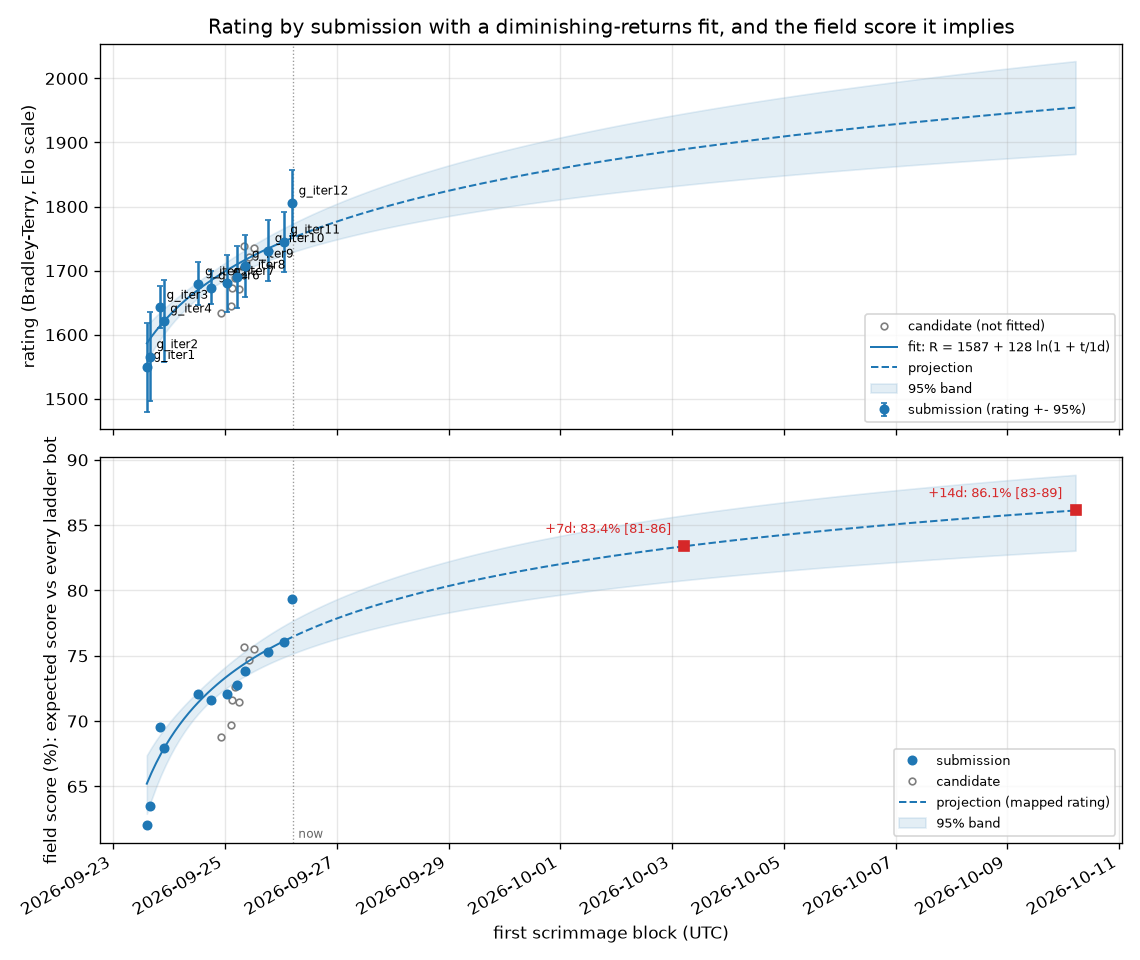
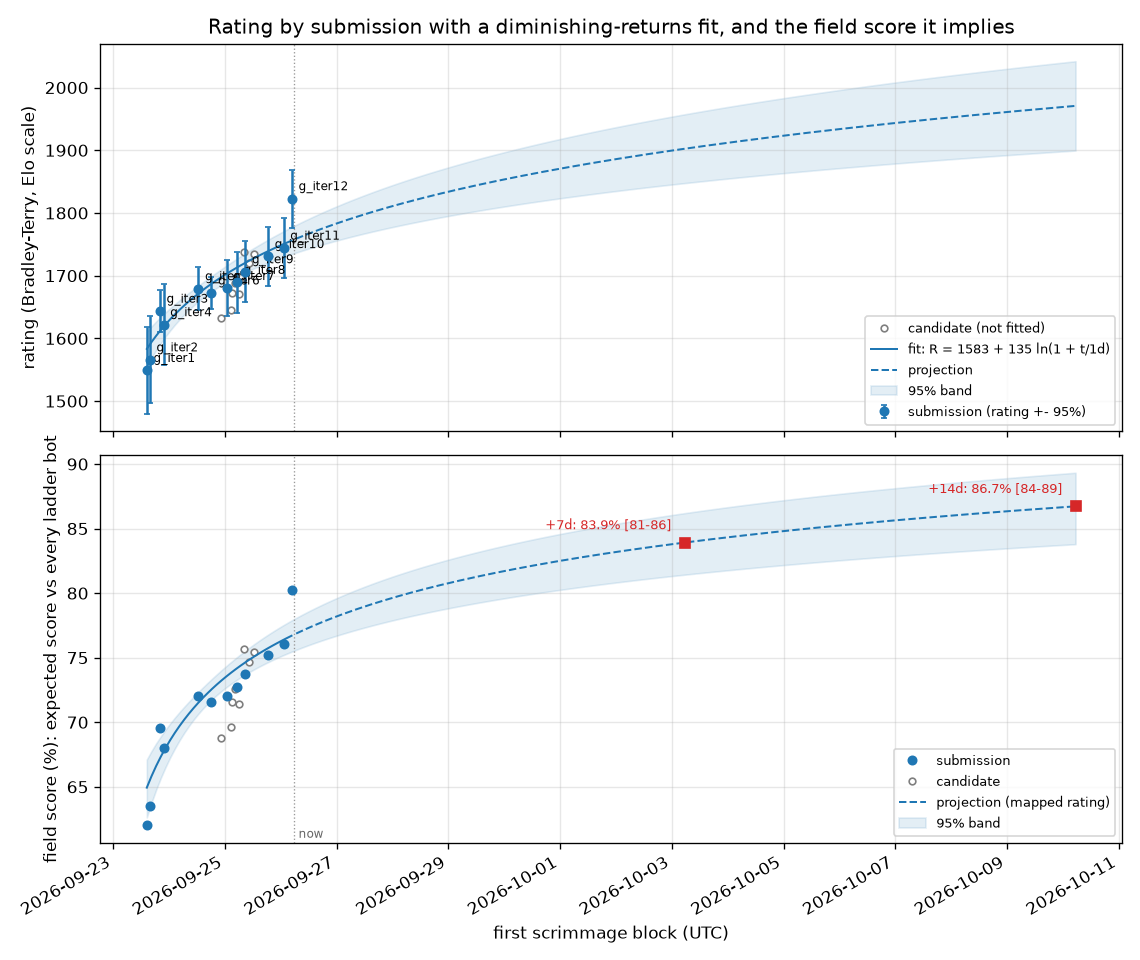
Submission block 20260926-051514-scrim-g_iter12 posted (g_iter12)
Claude-Session: https://claude.ai/code/session_015tNyF5ucwWW1mudpEQTT25

diff --git a/progress/ONSET-merged.md b/progress/ONSET-merged.md
@@ -1,6 +1,6 @@
-# Which metric starts predicting the result first -- every recorded block of g_iter11 merged
+# Which metric starts predicting the result first -- every recorded block of g_iter12 merged
 
-204 games, 99 wins. Noise floor about 0.14; a correlation inside that band is not evidence.
+197 games, 105 wins. Noise floor about 0.14; a correlation inside that band is not evidence.
 
 Every metric is oriented so **higher is better for us**, so a positive correlation always means
 "this being better goes with winning". `~avg` is the running mean over all rounds so far rather than
@@ -12,46 +12,46 @@ See `progress/METRICS.md` for how each quantity is computed.
 
 | onset | anti | metric | peak corr | r100 | r200 | r300 | r400 | r600 | r900 |
 |---|---|---|---|---|---|---|---|---|---|
-| r100 | - | mines (us-them) | +0.43 | +0.33 | +0.35 | +0.39 | +0.40 | +0.43 | +0.42 |
-| r100 | - | mines (us-them) ~avg | +0.44 | +0.32 | +0.35 | +0.37 | +0.40 | +0.43 | +0.43 |
-| r100 | - | worth (us-them) | +0.50 | +0.34 | +0.35 | +0.42 | +0.43 | +0.50 | +0.47 |
-| r100 | - | worth (us-them) ~avg | +0.49 | +0.33 | +0.35 | +0.39 | +0.42 | +0.48 | +0.49 |
-| r250 | - | robots (us-them) | +0.59 | +0.27 | +0.26 | +0.36 | +0.40 | +0.56 | +0.59 |
-| r250 | - | spawned (us-them) | +0.57 | +0.27 | +0.25 | +0.37 | +0.40 | +0.54 | +0.57 |
-| r300 | - | robots (us-them) ~avg | +0.57 | +0.28 | +0.25 | +0.32 | +0.38 | +0.49 | +0.56 |
-| r300 | - | spawned (us-them) ~avg | +0.56 | +0.28 | +0.25 | +0.31 | +0.38 | +0.49 | +0.55 |
-| r300 | - | vaporators (us-them) | +0.41 | +0.01 | +0.16 | +0.32 | +0.31 | +0.41 | +0.33 |
-| r400 | - | pickups (us-them) | +0.44 | +0.08 | +0.15 | +0.26 | +0.34 | +0.37 | +0.44 |
-| r400 | - | vaporators (us-them) ~avg | +0.41 | +0.01 | +0.10 | +0.27 | +0.31 | +0.39 | +0.39 |
-| r450 | - | landscapers (us-them) | +0.65 | +0.12 | +0.04 | +0.08 | +0.21 | +0.52 | +0.65 |
-| r450 | - | pickups (us-them) ~avg | +0.44 | +0.10 | +0.17 | +0.24 | +0.30 | +0.37 | +0.42 |
-| r450 | - | units (us-them) | +0.57 | +0.24 | +0.13 | +0.21 | +0.29 | +0.51 | +0.55 |
-| r500 | - | units (us-them) ~avg | +0.55 | +0.25 | +0.16 | +0.17 | +0.24 | +0.40 | +0.53 |
-| r600 | - | digs (us-them) | +0.59 | +0.12 | +0.02 | +0.02 | +0.11 | +0.30 | +0.47 |
-| r600 | - | landscapers (us-them) ~avg | +0.64 | +0.12 | +0.04 | +0.03 | +0.09 | +0.31 | +0.56 |
-| r650 | - | dirtDeps (us-them) | +0.58 | +0.13 | +0.01 | +0.00 | +0.07 | +0.26 | +0.45 |
-| r650 | - | miners (us-them) | +0.42 | +0.12 | +0.12 | +0.13 | +0.15 | +0.30 | +0.42 |
-| r750 | - | drones (us-them) | +0.34 | +0.19 | +0.17 | +0.24 | +0.22 | +0.25 | +0.32 |
-| r800 | - | drones (us-them) ~avg | +0.32 | +0.19 | +0.23 | +0.26 | +0.26 | +0.26 | +0.32 |
-| r800 | - | moves (us-them) | +0.40 | -0.15 | -0.06 | +0.05 | +0.12 | +0.23 | +0.35 |
-| r850 | - | digs (us-them) ~avg | +0.50 | +0.11 | +0.02 | -0.00 | +0.04 | +0.17 | +0.35 |
-| r850 | - | miners (us-them) ~avg | +0.36 | +0.18 | +0.15 | +0.16 | +0.17 | +0.22 | +0.31 |
-| r900 | - | dirtDeps (us-them) ~avg | +0.48 | +0.12 | +0.01 | -0.02 | +0.00 | +0.13 | +0.32 |
-| r1000 | - | moves (us-them) ~avg | +0.34 | -0.18 | -0.08 | +0.02 | +0.08 | +0.16 | +0.26 |
-| - | r950 | aba (us-them) [inverted] | -0.33 | +0.08 | +0.08 | +0.00 | -0.01 | -0.11 | -0.29 |
-| - | - | aba (us-them) [inverted] ~avg | -0.26 | +0.06 | +0.07 | +0.01 | -0.01 | -0.06 | -0.17 |
-| - | - | cov (us-them) | -0.19 | -0.19 | -0.08 | +0.00 | +0.06 | +0.11 | +0.17 |
-| - | - | cov (us-them) ~avg | -0.19 | -0.19 | -0.14 | -0.07 | -0.03 | +0.02 | +0.10 |
-| - | - | died (us-them) [inverted] | +0.29 | +0.07 | +0.08 | +0.11 | +0.18 | +0.27 | +0.18 |
-| - | - | died (us-them) [inverted] ~avg | +0.24 | +0.07 | +0.11 | +0.11 | +0.13 | +0.22 | +0.23 |
+| r150 | - | worth (us-them) | +0.51 | +0.25 | +0.33 | +0.43 | +0.47 | +0.46 | +0.46 |
+| r250 | - | mines (us-them) | +0.43 | +0.29 | +0.28 | +0.38 | +0.43 | +0.42 | +0.41 |
+| r250 | - | robots (us-them) | +0.58 | +0.15 | +0.19 | +0.38 | +0.47 | +0.50 | +0.56 |
+| r250 | - | worth (us-them) ~avg | +0.53 | +0.24 | +0.29 | +0.38 | +0.44 | +0.48 | +0.48 |
+| r300 | - | mines (us-them) ~avg | +0.46 | +0.28 | +0.26 | +0.32 | +0.38 | +0.43 | +0.44 |
+| r300 | - | spawned (us-them) | +0.60 | +0.13 | +0.13 | +0.35 | +0.44 | +0.49 | +0.56 |
+| r350 | - | robots (us-them) ~avg | +0.59 | +0.13 | +0.14 | +0.27 | +0.37 | +0.49 | +0.57 |
+| r350 | - | units (us-them) | +0.56 | +0.23 | +0.14 | +0.26 | +0.36 | +0.46 | +0.53 |
+| r400 | - | spawned (us-them) ~avg | +0.59 | +0.12 | +0.10 | +0.22 | +0.32 | +0.45 | +0.54 |
+| r450 | - | landscapers (us-them) | +0.56 | +0.09 | +0.06 | +0.10 | +0.23 | +0.46 | +0.56 |
+| r450 | - | units (us-them) ~avg | +0.57 | +0.21 | +0.14 | +0.22 | +0.29 | +0.43 | +0.55 |
+| r500 | - | vaporators (us-them) | +0.40 | +0.14 | +0.15 | +0.25 | +0.29 | +0.34 | +0.35 |
+| r550 | - | vaporators (us-them) ~avg | +0.41 | +0.14 | +0.12 | +0.18 | +0.24 | +0.32 | +0.35 |
+| r600 | - | digs (us-them) | +0.56 | +0.17 | +0.13 | +0.19 | +0.24 | +0.33 | +0.46 |
+| r600 | - | landscapers (us-them) ~avg | +0.59 | +0.10 | +0.03 | +0.06 | +0.14 | +0.34 | +0.54 |
+| r650 | - | dirtDeps (us-them) | +0.54 | +0.11 | +0.07 | +0.14 | +0.20 | +0.29 | +0.44 |
+| r700 | - | digs (us-them) ~avg | +0.50 | +0.16 | +0.11 | +0.15 | +0.20 | +0.27 | +0.39 |
+| r750 | - | moves (us-them) | +0.42 | +0.10 | +0.16 | +0.17 | +0.18 | +0.26 | +0.36 |
+| r800 | - | dirtDeps (us-them) ~avg | +0.48 | +0.10 | +0.04 | +0.09 | +0.15 | +0.23 | +0.35 |
+| r800 | - | miners (us-them) | +0.31 | +0.18 | +0.15 | +0.24 | +0.25 | +0.26 | +0.31 |
+| r900 | - | moves (us-them) ~avg | +0.37 | +0.07 | +0.16 | +0.19 | +0.19 | +0.23 | +0.31 |
+| r900 | - | netguns (us-them) | +0.38 | . | -0.08 | -0.06 | +0.03 | +0.25 | +0.31 |
+| r950 | - | miners (us-them) ~avg | +0.32 | +0.16 | +0.16 | +0.24 | +0.26 | +0.27 | +0.30 |
+| r1050 | - | drones (us-them) | +0.35 | +0.12 | +0.08 | +0.19 | +0.19 | +0.14 | +0.24 |
+| - | r900 | aba (us-them) [inverted] | -0.35 | +0.12 | +0.09 | +0.08 | -0.02 | -0.17 | -0.31 |
+| - | - | aba (us-them) [inverted] ~avg | -0.29 | +0.11 | +0.10 | +0.11 | +0.05 | -0.08 | -0.22 |
+| - | - | cov (us-them) | +0.23 | +0.00 | +0.12 | +0.12 | +0.18 | +0.21 | +0.19 |
+| - | - | cov (us-them) ~avg | +0.21 | -0.03 | +0.07 | +0.07 | +0.12 | +0.16 | +0.19 |
+| - | - | died (us-them) [inverted] | +0.23 | +0.14 | +0.18 | +0.11 | +0.20 | +0.11 | +0.07 |
+| - | - | died (us-them) [inverted] ~avg | +0.22 | +0.12 | +0.20 | +0.19 | +0.20 | +0.16 | +0.15 |
+| - | - | drones (us-them) ~avg | +0.29 | +0.11 | +0.11 | +0.16 | +0.18 | +0.16 | +0.24 |
 | - | - | drowned (us-them) [inverted] | . | . | . | . | . | . | . |
 | - | - | drowned (us-them) [inverted] ~avg | . | . | . | . | . | . | . |
-| - | - | hqBuried (us-them) [inverted] | +0.14 | +0.13 | +0.13 | +0.10 | +0.07 | . | . |
-| - | - | hqBuried (us-them) [inverted] ~avg | +0.15 | +0.13 | +0.14 | +0.11 | +0.07 | +0.11 | +0.12 |
-| - | - | netguns (us-them) | +0.28 | . | +0.07 | +0.12 | +0.07 | +0.21 | +0.22 |
-| - | - | netguns (us-them) ~avg | +0.21 | . | +0.04 | +0.09 | +0.09 | +0.14 | +0.19 |
-| - | - | soup (us-them) | +0.23 | -0.01 | +0.12 | +0.01 | +0.06 | -0.07 | -0.13 |
-| - | - | soup (us-them) ~avg | +0.17 | -0.00 | +0.17 | +0.08 | +0.07 | +0.00 | -0.05 |
+| - | - | hqBuried (us-them) [inverted] | +0.27 | +0.27 | +0.23 | +0.05 | -0.06 | -0.04 | -0.06 |
+| - | - | hqBuried (us-them) [inverted] ~avg | +0.27 | +0.27 | +0.18 | -0.01 | -0.06 | -0.05 | -0.06 |
+| - | - | netguns (us-them) ~avg | +0.28 | . | -0.05 | -0.08 | -0.04 | +0.09 | +0.21 |
+| - | - | pickups (us-them) | +0.24 | +0.05 | +0.10 | +0.16 | +0.19 | +0.16 | +0.20 |
+| - | - | pickups (us-them) ~avg | +0.21 | +0.06 | +0.12 | +0.16 | +0.19 | +0.18 | +0.21 |
+| - | - | soup (us-them) | -0.28 | +0.13 | +0.14 | -0.03 | -0.11 | -0.16 | -0.28 |
+| - | - | soup (us-them) ~avg | +0.20 | +0.18 | +0.20 | +0.17 | +0.08 | -0.05 | -0.18 |
 
 **Reading it.** Earliest onset is the first place to look: temporal precedence is the one causal hint a
 correlation can honestly give. Late-onset metrics are usually the scoreboard rather than the cause -- by then

diff --git a/progress/ONSET.md b/progress/ONSET.md
@@ -1,6 +1,6 @@
 # Which metric starts predicting the result first
 
-38 games, 19 wins. Noise floor about 0.32; a correlation inside that band is not evidence.
+41 games, 25 wins. Noise floor about 0.31; a correlation inside that band is not evidence.
 
 Every metric is oriented so **higher is better for us**, so a positive correlation always means
 "this being better goes with winning". `~avg` is the running mean over all rounds so far rather than
@@ -12,46 +12,46 @@ See `progress/METRICS.md` for how each quantity is computed.
 
 | onset | anti | metric | peak corr | r100 | r200 | r300 | r400 | r600 | r900 |
 |---|---|---|---|---|---|---|---|---|---|
-| r100 | r900 | soup (us-them) ~avg | +0.39 | +0.39 | +0.25 | +0.26 | +0.08 | -0.04 | -0.31 |
-| r150 | - | died (us-them) [inverted] | +0.33 | +0.25 | +0.31 | +0.02 | +0.05 | +0.21 | -0.02 |
-| r150 | - | died (us-them) [inverted] ~avg | +0.38 | +0.26 | +0.36 | +0.20 | +0.12 | +0.17 | +0.06 |
-| r150 | - | hqBuried (us-them) [inverted] | +0.36 | +0.26 | +0.36 | +0.15 | +0.15 | . | +0.15 |
-| r150 | - | hqBuried (us-them) [inverted] ~avg | +0.36 | +0.26 | +0.31 | +0.06 | +0.07 | +0.08 | +0.05 |
-| r250 | - | aba (us-them) [inverted] | +0.38 | +0.17 | +0.21 | +0.31 | +0.32 | +0.01 | -0.21 |
-| r250 | - | aba (us-them) [inverted] ~avg | +0.40 | +0.15 | +0.20 | +0.36 | +0.36 | +0.19 | -0.02 |
-| r250 | - | robots (us-them) | +0.60 | +0.01 | +0.24 | +0.37 | +0.47 | +0.49 | +0.60 |
-| r250 | - | spawned (us-them) | +0.57 | -0.03 | +0.16 | +0.38 | +0.46 | +0.46 | +0.56 |
-| r250 | - | worth (us-them) | +0.48 | +0.17 | +0.22 | +0.38 | +0.41 | +0.44 | +0.39 |
-| r300 | - | mines (us-them) | +0.40 | +0.20 | +0.18 | +0.35 | +0.37 | +0.38 | +0.31 |
-| r300 | - | robots (us-them) ~avg | +0.57 | +0.02 | +0.12 | +0.32 | +0.39 | +0.48 | +0.56 |
-| r300 | - | worth (us-them) ~avg | +0.43 | +0.17 | +0.17 | +0.34 | +0.37 | +0.43 | +0.41 |
-| r350 | - | spawned (us-them) ~avg | +0.54 | -0.02 | +0.06 | +0.27 | +0.36 | +0.44 | +0.53 |
-| r350 | - | units (us-them) | +0.58 | +0.08 | +0.13 | +0.25 | +0.34 | +0.44 | +0.58 |
-| r400 | - | mines (us-them) ~avg | +0.39 | +0.20 | +0.16 | +0.28 | +0.32 | +0.37 | +0.38 |
-| r400 | - | units (us-them) ~avg | +0.54 | +0.09 | +0.12 | +0.28 | +0.31 | +0.43 | +0.52 |
-| r500 | - | landscapers (us-them) | +0.54 | -0.03 | +0.05 | +0.17 | +0.23 | +0.43 | +0.54 |
-| r550 | - | landscapers (us-them) ~avg | +0.53 | -0.03 | +0.02 | +0.21 | +0.21 | +0.36 | +0.50 |
-| r600 | - | digs (us-them) | +0.59 | +0.26 | +0.18 | +0.20 | +0.22 | +0.33 | +0.52 |
-| r650 | - | dirtDeps (us-them) | +0.59 | +0.18 | +0.10 | +0.16 | +0.19 | +0.30 | +0.51 |
-| r800 | - | digs (us-them) ~avg | +0.54 | +0.26 | +0.16 | +0.20 | +0.21 | +0.26 | +0.38 |
-| r800 | - | pickups (us-them) | +0.35 | -0.02 | +0.03 | +0.08 | +0.18 | +0.22 | +0.34 |
-| r850 | - | dirtDeps (us-them) ~avg | +0.53 | +0.19 | +0.03 | +0.14 | +0.16 | +0.22 | +0.36 |
-| r950 | - | vaporators (us-them) | +0.34 | -0.01 | -0.03 | +0.02 | +0.07 | +0.26 | +0.30 |
-| r1050 | - | pickups (us-them) ~avg | +0.30 | -0.02 | +0.01 | +0.03 | +0.09 | +0.20 | +0.29 |
-| r1150 | - | drones (us-them) | +0.35 | -0.08 | -0.09 | -0.01 | +0.03 | +0.17 | +0.23 |
-| r1150 | - | netguns (us-them) | +0.33 | . | +0.15 | +0.15 | +0.24 | +0.18 | +0.11 |
-| - | - | cov (us-them) | +0.26 | -0.06 | +0.12 | +0.06 | +0.20 | +0.20 | +0.26 |
-| - | - | cov (us-them) ~avg | +0.20 | -0.02 | +0.11 | +0.03 | +0.10 | +0.16 | +0.20 |
-| - | - | drones (us-them) ~avg | +0.23 | -0.08 | -0.08 | -0.07 | -0.04 | +0.05 | +0.20 |
+| r150 | - | died (us-them) [inverted] | +0.40 | +0.16 | +0.29 | +0.17 | +0.16 | +0.19 | +0.32 |
+| r150 | - | died (us-them) [inverted] ~avg | +0.37 | +0.12 | +0.32 | +0.31 | +0.24 | +0.19 | +0.35 |
+| r150 | - | landscapers (us-them) | +0.72 | +0.09 | +0.35 | +0.13 | +0.11 | +0.37 | +0.66 |
+| r150 | - | landscapers (us-them) ~avg | +0.69 | +0.09 | +0.35 | +0.22 | +0.18 | +0.27 | +0.47 |
+| r150 | - | pickups (us-them) | +0.42 | +0.13 | +0.38 | +0.32 | +0.22 | +0.22 | +0.39 |
+| r150 | - | pickups (us-them) ~avg | +0.44 | +0.13 | +0.39 | +0.39 | +0.34 | +0.24 | +0.44 |
+| r150 | - | robots (us-them) | +0.68 | +0.21 | +0.39 | +0.34 | +0.34 | +0.40 | +0.53 |
+| r150 | - | robots (us-them) ~avg | +0.65 | +0.16 | +0.35 | +0.37 | +0.37 | +0.41 | +0.52 |
+| r150 | - | units (us-them) | +0.62 | +0.22 | +0.40 | +0.24 | +0.24 | +0.35 | +0.49 |
+| r150 | - | units (us-them) ~avg | +0.60 | +0.15 | +0.36 | +0.33 | +0.31 | +0.35 | +0.49 |
+| r150 | - | worth (us-them) | +0.64 | +0.18 | +0.44 | +0.39 | +0.38 | +0.38 | +0.44 |
+| r150 | - | worth (us-them) ~avg | +0.63 | +0.23 | +0.39 | +0.39 | +0.41 | +0.41 | +0.46 |
+| r200 | - | digs (us-them) | +0.72 | +0.28 | +0.33 | +0.32 | +0.34 | +0.35 | +0.47 |
+| r200 | - | digs (us-them) ~avg | +0.56 | +0.28 | +0.30 | +0.30 | +0.33 | +0.34 | +0.42 |
+| r200 | - | mines (us-them) | +0.35 | +0.20 | +0.31 | +0.33 | +0.32 | +0.26 | +0.30 |
+| r200 | - | mines (us-them) ~avg | +0.33 | +0.24 | +0.31 | +0.30 | +0.33 | +0.32 | +0.33 |
+| r300 | - | drones (us-them) | +0.32 | +0.24 | +0.24 | +0.32 | +0.28 | +0.03 | +0.06 |
+| r300 | - | drones (us-them) ~avg | +0.32 | +0.24 | +0.27 | +0.32 | +0.32 | +0.21 | +0.17 |
+| r300 | - | vaporators (us-them) | +0.55 | -0.03 | +0.13 | +0.33 | +0.38 | +0.31 | +0.40 |
+| r400 | - | vaporators (us-them) ~avg | +0.57 | -0.03 | +0.02 | +0.21 | +0.32 | +0.34 | +0.38 |
+| r450 | - | spawned (us-them) | +0.61 | +0.20 | +0.27 | +0.26 | +0.29 | +0.34 | +0.46 |
+| r450 | - | spawned (us-them) ~avg | +0.56 | +0.15 | +0.27 | +0.26 | +0.28 | +0.34 | +0.41 |
+| r550 | - | netguns (us-them) | +0.51 | . | -0.10 | -0.07 | +0.05 | +0.38 | +0.50 |
+| r600 | - | dirtDeps (us-them) | +0.71 | +0.02 | +0.19 | +0.22 | +0.28 | +0.32 | +0.45 |
+| r700 | - | dirtDeps (us-them) ~avg | +0.54 | +0.02 | +0.13 | +0.15 | +0.23 | +0.28 | +0.38 |
+| r750 | - | netguns (us-them) ~avg | +0.41 | . | -0.10 | -0.14 | -0.04 | +0.17 | +0.38 |
+| r900 | - | moves (us-them) | +0.43 | +0.12 | +0.08 | +0.14 | +0.07 | +0.14 | +0.30 |
+| r1100 | - | moves (us-them) ~avg | +0.33 | +0.06 | +0.09 | +0.17 | +0.12 | +0.12 | +0.23 |
+| - | r850 | aba (us-them) [inverted] | -0.52 | +0.04 | +0.22 | +0.13 | -0.08 | -0.17 | -0.39 |
+| - | r1000 | aba (us-them) [inverted] ~avg | -0.41 | +0.07 | +0.21 | +0.17 | +0.02 | -0.09 | -0.25 |
+| - | - | cov (us-them) | -0.28 | -0.23 | -0.28 | -0.16 | -0.09 | +0.11 | +0.12 |
+| - | r200 | cov (us-them) ~avg | -0.31 | -0.26 | -0.31 | -0.28 | -0.21 | -0.06 | +0.05 |
 | - | - | drowned (us-them) [inverted] | . | . | . | . | . | . | . |
 | - | - | drowned (us-them) [inverted] ~avg | . | . | . | . | . | . | . |
-| - | - | miners (us-them) | +0.32 | +0.17 | +0.23 | +0.14 | +0.23 | +0.28 | +0.32 |
-| - | - | miners (us-them) ~avg | +0.28 | +0.15 | +0.21 | +0.25 | +0.26 | +0.27 | +0.28 |
-| - | - | moves (us-them) | +0.28 | -0.15 | -0.00 | +0.04 | +0.06 | +0.17 | +0.23 |
-| - | - | moves (us-them) ~avg | +0.21 | -0.09 | -0.01 | +0.04 | +0.06 | +0.12 | +0.18 |
-| - | - | netguns (us-them) ~avg | +0.27 | . | +0.15 | +0.15 | +0.20 | +0.22 | +0.17 |
-| - | r800 | soup (us-them) | -0.41 | +0.36 | +0.02 | +0.05 | -0.14 | -0.23 | -0.41 |
-| - | - | vaporators (us-them) ~avg | +0.26 | -0.01 | -0.05 | -0.09 | -0.02 | +0.11 | +0.20 |
+| - | - | hqBuried (us-them) [inverted] | +0.22 | +0.22 | +0.16 | +0.20 | +0.00 | . | . |
+| - | - | hqBuried (us-them) [inverted] ~avg | -0.29 | +0.22 | +0.08 | -0.29 | -0.28 | -0.28 | -0.27 |
+| - | - | miners (us-them) | +0.28 | +0.10 | +0.15 | +0.17 | +0.17 | +0.20 | +0.25 |
+| - | - | miners (us-them) ~avg | +0.26 | +0.07 | +0.13 | +0.23 | +0.22 | +0.21 | +0.26 |
+| - | r450 | soup (us-them) | +0.47 | -0.09 | +0.24 | -0.13 | -0.14 | -0.27 | -0.44 |
+| - | r600 | soup (us-them) ~avg | +0.47 | +0.09 | +0.21 | +0.10 | -0.01 | -0.31 | -0.35 |
 
 **Reading it.** Earliest onset is the first place to look: temporal precedence is the one causal hint a
 correlation can honestly give. Late-onset metrics are usually the scoreboard rather than the cause -- by then

diff --git a/progress/ELO.md b/progress/ELO.md
@@ -1,28 +1,28 @@
 # Ladder
 
-5753 scrimmages (ours only), 5229 distinct (a repeated pairing with the same seed replays the same game and counts once), rated by a batch Bradley-Terry fit on the Elo scale (`tools/elolib.py`); each of our builds is its own player. 65 of 65 ladder bots met.
+5801 scrimmages (ours only), 5277 distinct (a repeated pairing with the same seed replays the same game and counts once), rated by a batch Bradley-Terry fit on the Elo scale (`tools/elolib.py`); each of our builds is its own player. 65 of 65 ladder bots met.
 
 Our builds (rating +- 95%; field score = expected score against every ladder bot, one game each):
 
 | build | rating | rank | games | record | field score |
 |---|---|---|---|---|---|
-| g_iter12 | 1806 +- 52 | 13 of 86 | 192 | 85-107 | 79.4% |
-| g_iter11 | 1745 +- 47 | 14 of 86 | 240 | 107-133 | 76.1% |
-| cand43b | 1738 +- 79 | 15 of 86 | 96 | 64-32 | 75.7% |
-| cand49b | 1735 +- 75 | 17 of 86 | 96 | 42-54 | 75.5% |
-| g_iter10 | 1731 +- 48 | 19 of 86 | 240 | 103-137 | 75.3% |
-| cand47d | 1722 +- 53 | 20 of 86 | 192 | 73-119 | 74.7% |
-| g_iter9 | 1707 +- 49 | 22 of 86 | 240 | 78-162 | 73.8% |
+| g_iter12 | 1823 +- 46 | 13 of 86 | 240 | 111-129 | 80.2% |
+| g_iter11 | 1744 +- 47 | 14 of 86 | 240 | 107-133 | 76.0% |
+| cand43b | 1737 +- 79 | 15 of 86 | 96 | 64-32 | 75.6% |
+| cand49b | 1734 +- 75 | 17 of 86 | 96 | 42-54 | 75.5% |
+| g_iter10 | 1731 +- 48 | 19 of 86 | 240 | 103-137 | 75.2% |
+| cand47d | 1721 +- 53 | 20 of 86 | 192 | 73-119 | 74.7% |
+| g_iter9 | 1706 +- 49 | 22 of 86 | 240 | 78-162 | 73.8% |
 | g_iter8 | 1690 +- 49 | 23 of 86 | 240 | 108-132 | 72.7% |
 | cand41b | 1688 +- 76 | 24 of 86 | 96 | 51-45 | 72.6% |
-| g_iter7 | 1680 +- 44 | 25 of 86 | 288 | 135-153 | 72.1% |
-| g_iter5 | 1680 +- 34 | 26 of 86 | 618 | 329-289 | 72.1% |
+| g_iter7 | 1680 +- 45 | 25 of 86 | 288 | 135-153 | 72.1% |
+| g_iter5 | 1679 +- 34 | 26 of 86 | 618 | 329-289 | 72.0% |
 | cand40c | 1673 +- 77 | 27 of 86 | 96 | 57-39 | 71.6% |
 | g_iter6 | 1673 +- 26 | 28 of 86 | 886 | 450-436 | 71.6% |
 | cand42c | 1671 +- 76 | 29 of 86 | 96 | 49-47 | 71.5% |
 | iter24 | 1650 +- 130 | 30 of 86 | 46 | 11-35 | 70.0% |
-| cand37 | 1645 +- 76 | 31 of 86 | 96 | 46-50 | 69.7% |
-| g_iter3 | 1643 +- 33 | 32 of 86 | 796 | 167-629 | 69.5% |
+| cand37 | 1645 +- 76 | 31 of 86 | 96 | 46-50 | 69.6% |
+| g_iter3 | 1644 +- 33 | 32 of 86 | 796 | 167-629 | 69.6% |
 | cand31 | 1633 +- 76 | 33 of 86 | 96 | 52-44 | 68.8% |
 | g_iter4 | 1622 +- 64 | 34 of 86 | 217 | 43-174 | 68.0% |
 | g_iter2 | 1566 +- 69 | 35 of 86 | 192 | 44-148 | 63.5% |
@@ -32,50 +32,50 @@ Our builds (rating +- 95%; field score = expected score against every ladder bot
 |---|---|---|---|---|---|
 | 1 | awesomelemonade.citricsky | 2246 | 200 | 103 | 101-2 |
 | 2 | uvafan.v14_final_bot | 2237 | 200 | 98 | 96-2 |
-| 3 | AngusRitossa.newbot | 2177 | 174 | 95 | 92-3 |
-| 4 | ronniesong0809.finalbota | 2034 | 98 | 121 | 108-13 |
+| 3 | AngusRitossa.newbot | 2178 | 174 | 95 | 92-3 |
+| 4 | ronniesong0809.finalbota | 2059 | 98 | 127 | 114-13 |
 | 5 | StoneT2000.FinalChowBotStable | 1990 | 211 | 21 | 19-2 |
-| 6 | rzhan11.quals_bot | 1986 | 115 | 86 | 77-9 |
+| 6 | rzhan11.quals_bot | 1987 | 115 | 86 | 77-9 |
 | 7 | IvanGeffner.finalbota | 1983 | 105 | 101 | 90-11 |
 | 8 | battlecode20-team4.finalbota | 1981 | 65 | 226 | 195-31 |
-| 9 | winkelmantanner.tannerplayer | 1946 | 50 | 302 | 244-58 |
-| 10 | mvpatel2000.qual | 1929 | 49 | 289 | 229-60 |
-| 11 | EmaPajic.Qualifications | 1904 | 43 | 353 | 272-81 |
-| 12 | poortho.stable_seeding_bot | 1831 | 33 | 521 | 362-159 |
-| 13 | **us:g_iter12** | 1806 | 52 | 192 | 85-107 |
-| 14 | **us:g_iter11** | 1745 | 47 | 240 | 107-133 |
-| 15 | **us:cand43b** | 1738 | 79 | 96 | 64-32 |
-| 16 | laurenschneider.pdx_team_one | 1736 | 30 | 536 | 306-230 |
-| 17 | **us:cand49b** | 1735 | 75 | 96 | 42-54 |
-| 18 | cormackikkert.whyPermutator | 1734 | 30 | 529 | 300-229 |
+| 9 | winkelmantanner.tannerplayer | 1940 | 49 | 308 | 246-62 |
+| 10 | mvpatel2000.qual | 1931 | 49 | 295 | 233-62 |
+| 11 | EmaPajic.Qualifications | 1904 | 43 | 359 | 275-84 |
+| 12 | poortho.stable_seeding_bot | 1833 | 32 | 527 | 366-161 |
+| 13 | **us:g_iter12** | 1823 | 46 | 240 | 111-129 |
+| 14 | **us:g_iter11** | 1744 | 47 | 240 | 107-133 |
+| 15 | **us:cand43b** | 1737 | 79 | 96 | 64-32 |
+| 16 | laurenschneider.pdx_team_one | 1736 | 30 | 542 | 308-234 |
+| 17 | **us:cand49b** | 1734 | 75 | 96 | 42-54 |
+| 18 | cormackikkert.whyPermutator | 1731 | 30 | 535 | 300-235 |
 | 19 | **us:g_iter10** | 1731 | 48 | 240 | 103-137 |
-| 20 | **us:cand47d** | 1722 | 53 | 192 | 73-119 |
-| 21 | benzyx.seeding | 1708 | 30 | 532 | 283-249 |
-| 22 | **us:g_iter9** | 1707 | 49 | 240 | 78-162 |
+| 20 | **us:cand47d** | 1721 | 53 | 192 | 73-119 |
+| 21 | benzyx.seeding | 1707 | 30 | 538 | 284-254 |
+| 22 | **us:g_iter9** | 1706 | 49 | 240 | 78-162 |
 | 23 | **us:g_iter8** | 1690 | 49 | 240 | 108-132 |
 | 24 | **us:cand41b** | 1688 | 76 | 96 | 51-45 |
-| 25 | **us:g_iter7** | 1680 | 44 | 288 | 135-153 |
-| 26 | **us:g_iter5** | 1680 | 34 | 618 | 329-289 |
+| 25 | **us:g_iter7** | 1680 | 45 | 288 | 135-153 |
+| 26 | **us:g_iter5** | 1679 | 34 | 618 | 329-289 |
 | 27 | **us:cand40c** | 1673 | 77 | 96 | 57-39 |
 | 28 | **us:g_iter6** | 1673 | 26 | 886 | 450-436 |
 | 29 | **us:cand42c** | 1671 | 76 | 96 | 49-47 |
 | 30 | **us:iter24** | 1650 | 130 | 46 | 11-35 |
 | 31 | **us:cand37** | 1645 | 76 | 96 | 46-50 |
-| 32 | **us:g_iter3** | 1643 | 33 | 796 | 167-629 |
+| 32 | **us:g_iter3** | 1644 | 33 | 796 | 167-629 |
 | 33 | **us:cand31** | 1633 | 76 | 96 | 52-44 |
 | 34 | **us:g_iter4** | 1622 | 64 | 217 | 43-174 |
 | 35 | **us:g_iter2** | 1566 | 69 | 192 | 44-148 |
 | 36 | **us:g_iter1** | 1549 | 69 | 170 | 95-75 |
-| 37 | wpine215.stardustv2 | 1499 | 36 | 461 | 122-339 |
-| 38 | mhahn2003.nonrush | 1452 | 52 | 250 | 56-194 |
-| 39 | eggag32.BrutalPigeonBot | 1452 | 59 | 194 | 42-152 |
+| 37 | wpine215.stardustv2 | 1498 | 36 | 461 | 122-339 |
+| 38 | mhahn2003.nonrush | 1451 | 52 | 250 | 56-194 |
+| 39 | eggag32.BrutalPigeonBot | 1451 | 59 | 194 | 42-152 |
 | 40 | ARognes.FinalSubmission | 1413 | 147 | 31 | 6-25 |
 | 41 | cs454-w20-team3.playbot | 1404 | 117 | 50 | 10-40 |
 | 42 | TeamSerpentine.noodleBot | 1403 | 146 | 32 | 6-26 |
 | 43 | VinayaBhat.team10pdx | 1394 | 233 | 9 | 2-7 |
 | 44 | WilliamYue37.Player1 | 1383 | 142 | 40 | 6-34 |
 | 45 | jenlz.bustedJulianbot | 1380 | 274 | 8 | 1-7 |
-| 46 | yaonam.Robot_1 | 1376 | 155 | 33 | 5-28 |
+| 46 | yaonam.Robot_1 | 1375 | 155 | 33 | 5-28 |
 | 47 | Tim-gubski.AngryWaffleMaker | 1365 | 155 | 32 | 5-27 |
 | 48 | opheez.landscapers | 1364 | 271 | 9 | 1-8 |
 | 49 | ovimura.welovesoup | 1364 | 271 | 9 | 1-8 |

diff --git a/BENCHMARK.md b/BENCHMARK.md
@@ -62,7 +62,7 @@ build with at least 200 recorded games: a candidate's short ladder arm never re-
 | `EmaPajic.Mark3` | EmaPajic_Battlecode-2020 (c060a22) | - | - | untested |  |
 | `EmaPajic.Mark4` | EmaPajic_Battlecode-2020 (c060a22) | - | - | untested |  |
 | `EmaPajic.Mark5` | EmaPajic_Battlecode-2020 (c060a22) | - | - | untested |  |
-| `EmaPajic.Qualifications` | EmaPajic_Battlecode-2020 (c060a22) | 20 | 30 | target | 20 0 21 0 50 0 17 38 8 25 10 17 20 33 33 30 20 50 |
+| `EmaPajic.Qualifications` | EmaPajic_Battlecode-2020 (c060a22) | 50 | 30 | peer | 20 0 21 0 50 0 17 38 8 25 10 17 20 33 33 30 20 50 |
 | `EmaPajic.SeedingBot` | EmaPajic_Battlecode-2020 (c060a22) | - | - | untested |  |
 | `GabrielDWu.basicbot` | GabrielDWu_blezers-battlecode2020 (c0283f8) | - | - | untested |  |
 | `GabrielDWu.blezerbot` | GabrielDWu_blezers-battlecode2020 (c0283f8) | - | - | untested |  |
@@ -171,11 +171,11 @@ build with at least 200 recorded games: a candidate's short ladder arm never re-
 | `benzyx.espada` | benzyx_bc20-waterloo (05df2e7) | - | - | untested |  |
 | `benzyx.firstplayer` | benzyx_bc20-waterloo (05df2e7) | - | - | untested |  |
 | `benzyx.kurobot` | benzyx_bc20-waterloo (05df2e7) | - | - | untested |  |
-| `benzyx.seeding` | benzyx_bc20-waterloo (05df2e7) | 63 | 30 | peer | 25 17 50 40 25 45 41 33 36 33 33 58 50 25 58 53 50 50 63 63 75 |
+| `benzyx.seeding` | benzyx_bc20-waterloo (05df2e7) | 77 | 30 | peer | 25 17 50 40 25 45 41 33 36 33 33 58 50 25 58 53 50 50 63 63 77 |
 | `benzyx.tortuga` | benzyx_bc20-waterloo (05df2e7) | - | - | untested |  |
 | `charboltron.master_player` | charboltron_pdx_battlecode_2020_team_11 (f78f1e3) | - | - | untested |  |
 | `charboltron.team11newbot` | charboltron_pdx_battlecode_2020_team_11 (f78f1e3) | 100 | 2 | peer(>90 once) | 100 100 |
-| `cormackikkert.whyPermutator` | cormackikkert_battlecode2020 (4d230c4) | 50 | 30 | peer | 25 17 38 40 25 42 45 25 28 25 42 33 47 58 42 50 38 75 60 50 67 |
+| `cormackikkert.whyPermutator` | cormackikkert_battlecode2020 (4d230c4) | 73 | 30 | peer | 25 17 38 40 25 42 45 25 28 25 42 33 47 58 42 50 38 75 60 50 73 |
 | `cormackikkert.whyPermutatorOld` | cormackikkert_battlecode2020 (4d230c4) | - | - | untested |  |
 | `cosimogonnelli.Team3player` | cosimogonnelli_CS454-554-SE (d7dc657) | 100 | 2 | peer(>90 once) | 80 100 |
 | `cs454-w20-team3.oldbot` | cs454-w20-team3_team3-bot (502c334) | - | - | untested |  |
@@ -203,7 +203,7 @@ build with at least 200 recorded games: a candidate's short ladder arm never re-
 | `kylittle.deliriumv1` | kylittle_DeliriumBattlecode (17a94dd) | - | - | untested |  |
 | `kylittle.qualsbot` | kylittle_DeliriumBattlecode (17a94dd) | - | - | untested |  |
 | `kylittle.qualsbot2` | kylittle_DeliriumBattlecode (17a94dd) | 100 | 2 | peer(>90 once) | 100 100 |
-| `laurenschneider.pdx_team_one` | laurenschneider_battlecode20-PDXTeamOne (2965376) | 47 | 30 | target | 0 50 39 14 0 47 38 0 50 50 50 42 47 42 50 47 50 42 50 47 75 |
+| `laurenschneider.pdx_team_one` | laurenschneider_battlecode20-PDXTeamOne (2965376) | 73 | 30 | peer | 0 50 39 14 0 47 38 0 50 50 50 42 47 42 50 47 50 42 50 47 73 |
 | `lfchain.bigBudsBot` | lfchain_Battlecode2020 (b026153) | 100 | 2 | peer(>90 once) | 100 100 |
 | `lfchain.fBot` | lfchain_Battlecode2020 (b026153) | - | - | untested |  |
 | `lfchain.jBot` | lfchain_Battlecode2020 (b026153) | - | - | untested |  |
@@ -246,7 +246,7 @@ build with at least 200 recorded games: a candidate's short ladder arm never re-
 | `mvpatel2000.oldhades` | mvpatel2000_Battlecode2020 (554943e) | - | - | untested |  |
 | `mvpatel2000.poseidon` | mvpatel2000_Battlecode2020 (554943e) | - | - | untested |  |
 | `mvpatel2000.quail` | mvpatel2000_Battlecode2020 (554943e) | - | - | untested |  |
-| `mvpatel2000.qual` | mvpatel2000_Battlecode2020 (554943e) | 30 | 30 | target | 0 8 24 13 67 12 0 12 20 46 8 23 30 21 |
+| `mvpatel2000.qual` | mvpatel2000_Battlecode2020 (554943e) | 23 | 30 | target | 0 8 24 13 67 12 0 12 20 46 8 23 30 23 |
 | `mvpatel2000.qualAttacc` | mvpatel2000_Battlecode2020 (554943e) | - | - | untested |  |
 | `mvpatel2000.qualNoAtacc` | mvpatel2000_Battlecode2020 (554943e) | - | - | untested |  |
 | `mvpatel2000.seeding` | mvpatel2000_Battlecode2020 (554943e) | - | - | untested |  |
@@ -280,10 +280,10 @@ build with at least 200 recorded games: a candidate's short ladder arm never re-
 | `poortho.rush` | poortho_battlecode-2020 (ebbd61e) | - | - | untested |  |
 | `poortho.rush_bot` | poortho_battlecode-2020 (ebbd61e) | - | - | untested |  |
 | `poortho.stable_miner1` | poortho_battlecode-2020 (ebbd61e) | - | - | untested |  |
-| `poortho.stable_seeding_bot` | poortho_battlecode-2020 (ebbd61e) | 30 | 30 | target | 0 17 27 31 0 30 31 50 39 33 25 33 33 17 42 37 33 17 27 30 29 |
+| `poortho.stable_seeding_bot` | poortho_battlecode-2020 (ebbd61e) | 30 | 30 | target | 0 17 27 31 0 30 31 50 39 33 25 33 33 17 42 37 33 17 27 30 30 |
 | `ps789.dennisTestPlayer` | ps789_AZBattlecode (f1d54ab) | - | - | untested |  |
 | `ps789.phillipTestPlayer` | ps789_AZBattlecode (f1d54ab) | - | - | untested |  |
-| `ronniesong0809.finalbota` | ronniesong0809_battlecode20-RADS (1cee065) | 0 | 11 | locked | 0 18 15 7 0 0 8 |
+| `ronniesong0809.finalbota` | ronniesong0809_battlecode20-RADS (1cee065) | 7 | 30 | locked | 0 18 15 7 0 0 7 |
 | `ronniesong0809.team4enemy` | ronniesong0809_battlecode20-RADS (1cee065) | - | - | untested |  |
 | `ronniesong0809.team4player` | ronniesong0809_battlecode20-RADS (1cee065) | - | - | untested |  |
 | `rsandzimier.PlayerAlpha` | rsandzimier_battlecode2020 (8d856c3) | - | - | untested |  |
@@ -326,7 +326,7 @@ build with at least 200 recorded games: a candidate's short ladder arm never re-
 | `willBoyd8.droideka` | willBoyd8_BattleDroid (4b1d4ad) | - | - | untested |  |
 | `willBoyd8.empire` | willBoyd8_BattleDroid (4b1d4ad) | - | - | untested |  |
 | `willBoyd8.mouse` | willBoyd8_BattleDroid (4b1d4ad) | - | - | untested |  |
-| `winkelmantanner.tannerplayer` | winkelmantanner_battlecode2020_the-levee-builders (7f49f11) | 27 | 30 | target | 0 25 15 23 0 36 12 8 23 17 25 17 27 29 |
+| `winkelmantanner.tannerplayer` | winkelmantanner_battlecode2020_the-levee-builders (7f49f11) | 37 | 30 | target | 0 25 15 23 0 36 12 8 23 17 25 17 27 37 |
 | `wpine215.stardustv1` | wpine215_battlecode (d570d57) | - | - | untested |  |
 | `wpine215.stardustv2` | wpine215_battlecode (d570d57) | 90 | 30 | peer | 0 30 50 65 100 70 77 58 78 83 67 75 87 100 83 67 100 73 90 |
 | `yaonam.Robot_1` | yaonam_battlecode2020 (bb363f5) | 83 | 12 | peer | 62 100 83 100 |
